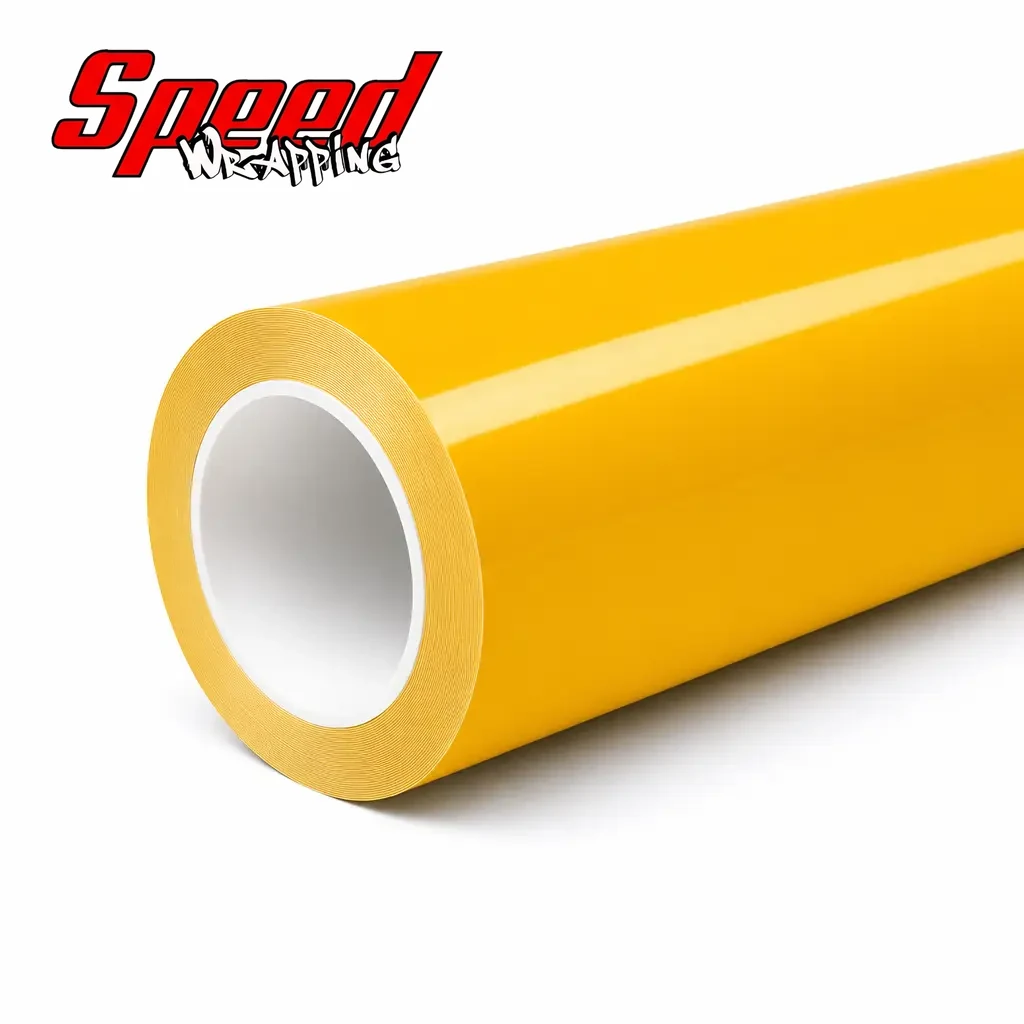
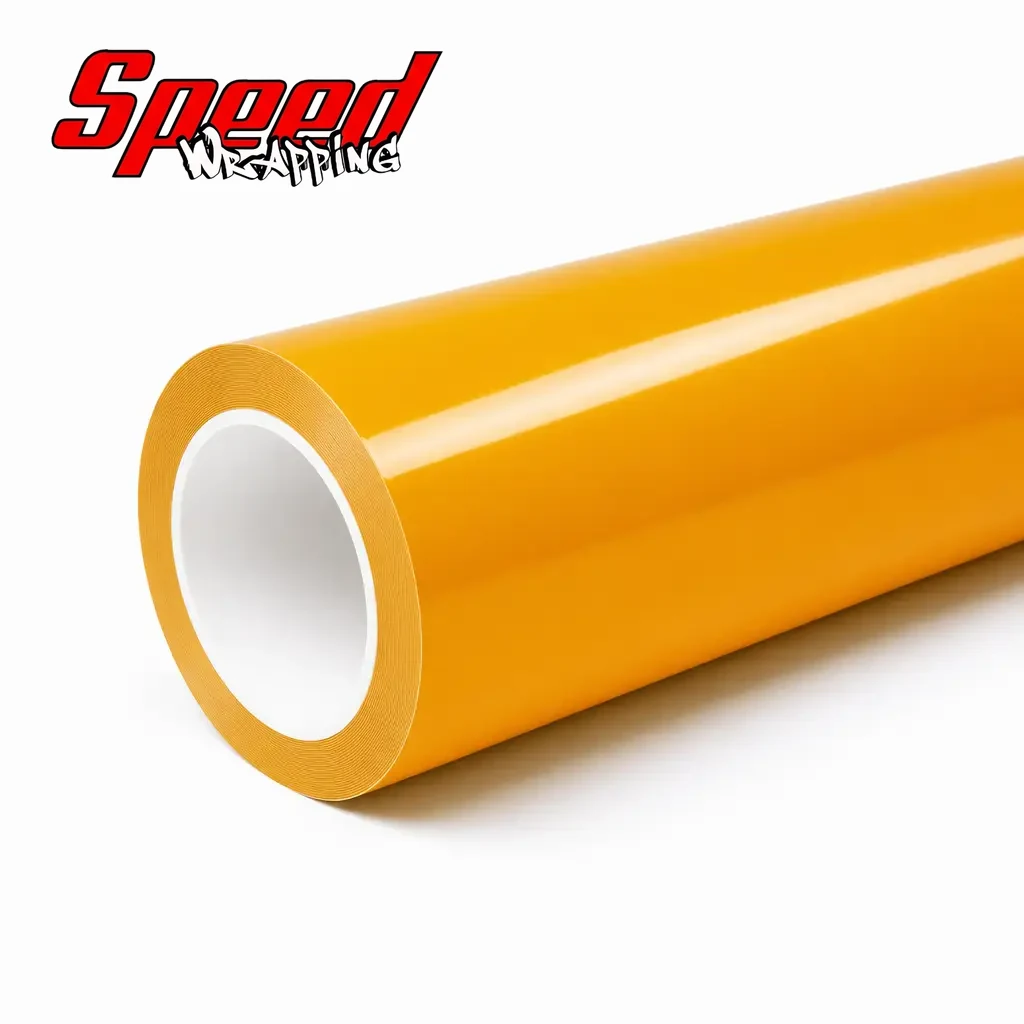
fix(esg-016): tom corrigido para o amarelo-ambar do cartao (#E39702), fotos e capa refeitas

Changed region(s): [[0.125, 0.125, 1.0, 0.8125]]

diff --git a/docs/STATUS_CORES_SPEED.md b/docs/STATUS_CORES_SPEED.md
@@ -45,9 +45,9 @@ pasta · `✅ ` = fotos e capa 100% no site. Ex.: `✅ EDG-020 LIQUID METAL RUBY
 | EGF-018 | FORGED CARBON | ✅ 30/09 | ⚠ 01/10 — **leitura errada na 1ª publicação**: tratei como brilhante; o João corrigiu: é **fosco com flake metálico** nos estilhaços (base preta aveludada). Novo recorte `3f26a272` | ✅ 01/10 — refeito fosco; **B** aprovado (`ee02ef0e`) | ✅ 01/10 — refeitas no acabamento certo (fosco + flake metálico): closes + capa rolo fosco; sem correção | ✅ 01/10 — 1ª publicação `2ff4491` (brilhante, errada) substituída pelo commit `38bb6c7`; 5 arquivos conferidos por conteúdo no ar; pasta ✅ |
 | ESG-004 | SUPER GLOSS FERRARI RED PET | ✅ 01/10 | ✅ 01/10 — à mão: H 356–1 · S 84–97 · V ~88 → vermelho vivo levemente alaranjado **`#E31E14`** (cor no teto: sem correção) | ✅ 01/10 — **B** aprovado (`0e479703`) | ✅ 01/10 — aprovadas (H 359–5 · S 92–99; capa V 89); sem correção | ✅ 01/10 — commit `70cfffc`, 5 mídias (capa antiga substituída), conferido no ar; pasta ✅ |
 | ESG-011 | SUPER GLOSS MIAMI BLUE PET | ✅ 01/10 | ✅ 01/10 — à mão: H 188–194 · S 87–99 · V 80–86 (asfalto neutro) → **`#05A9CD`** (cor no teto) | ✅ 01/10 — **B** aprovado (`d575dc96`) | ✅ 01/10 — aprovadas, sem correção | ✅ 01/10 — commit `99a4a2a`, 5 mídias, conferidas por conteúdo no ar; pasta ✅ |
-| ESG-016 | SUPER GLOSS SUNFLOWER YELLOW PET | ✅ 01/10 | ✅ 01/10 — à mão (só fotos sem a ESG-017 atrás): H 40–43 · S 97–99 · V 87–96 → **`#F2A705`** (cor no teto) | ✅ 01/10 — **B** aprovado (`7d4df5e3`; eu tinha recomendado A) | ✅ 01/10 — aprovadas, sem correção | ✅ 01/10 — commit `a232b57`, 5 mídias, conferidas no ar; pasta ✅ |
+| ESG-016 | SUPER GLOSS SUNFLOWER YELLOW PET | ✅ 01/10 | 🔁 01/10 — **releitura** (João reprovou o tom com foto do cartão na frente da ESG-017): face plana H 39,7 · S 99 · V 89 → **`#E39702`** (âmbar/manga); a 1ª leitura `#F2A705` pegou o reflexo e saiu limão | ✅ 01/10 — B aprovado (`7d4df5e3`), depois refeito | 🔁 01/10 — refeitas do zero com prompt âmbar (frontal `9b244d73`, traseira `5a21a2de`, perfil `c6443c48`, macro `7129a767`, capa `46c2d9be`), H 36–38; sem correção — **aprovadas pelo João em 01/10** | ✅ 01/10 — 1ª versão `a232b57` (limão), **substituída em 01/10** pela versão âmbar (mesmos nomes de arquivo, conferida no ar por md5); pasta ✅ |
 | ESG-025 | SUPER GLOSS LAVENDER PET | ✅ 01/10 | ✅ 01/10 — à mão: H 250–257 · S 38–41 · V 89–92 → **`#A996EA`** (lilás pastel; swatch) | ✅ 01/10 — **B** aprovado (`afb651df`; eu tinha recomendado A) | ✅ 01/10 — aprovadas, corrigidas contra `#A996EA` (violeta, val_max 0,95) | ✅ 01/10 — commit `9fe9043` (deploy demorou; banco na 2ª rodada), 5 mídias, conferidas no ar; pasta ✅ |
-| EMA-007 | MATT ARMY GREEN | ✅ 01/10 | ✅ 01/10 — à mão (balanço de branco pelo asfalto): H 104–108 · S 25–32 · V 43–48 → **`#5A7351`**; **fosco** (1ª EMA) | ✅ 01/10 — **B** aprovado (`1497a65c`, corrigido) | ✅ 01/10 — aprovadas, corrigidas com a família nova `militar` + sat_min 0,06 | ⚠ 01/10 — commit `c721c12`, 5 mídias gravadas e conferidas no ar, **mas a página não aparece na loja: as 17 EMA estão INATIVAS no NZERP** (`master_catalog.active = false`; a loja redireciona para o catálogo). Pasta ✅. Aguardando o João decidir se ativa a linha EMA |
+| EMA-007 | MATT ARMY GREEN | ✅ 01/10 | ✅ 01/10 — à mão (balanço de branco pelo asfalto): H 104–108 · S 25–32 · V 43–48 → **`#5A7351`**; **fosco** (1ª EMA) | ✅ 01/10 — **B** aprovado (`1497a65c`, corrigido) | ✅ 01/10 — aprovadas, corrigidas com a família nova `militar` + sat_min 0,06 | ✅ 01/10 — commit `c721c12`, 5 mídias conferidas no ar. Página escondida até a linha EMA ser ativada; **ativada no NZERP em 01/10 a pedido do João** e conferida na loja (`/loja/speed-wrapping-ema-007-matt-army-green-spwema007`). Pasta ✅ |
 
 **Cadastradas no NZERP em 01/10** (eram as "fora do NZERP" com amostra no Drive): nome lido no rótulo do
 cartão; fiscal, custo, preço da Engenharia e medidas copiados do irmão de linha; criadas no Tiny pela
@@ -72,7 +72,8 @@ sync. Prontas para foto:
 Os funcionários subiram 43 cores novas (pastas marcadas 🟢 em 01/10). Todas existem no NZERP e no site, só com a capa antiga (1 mídia, nenhuma foto de carro):
 
 - **ESG (super gloss), 28:** ESG-001 a ESG-029, menos a ESG-004 (no ar em 01/10); ESG-011, 016 e 025 no ar em 01/10.
-- **EMA (matt), 13:** EMA-003 a EMA-015 e EMA-017, menos a EMA-007. **A linha EMA inteira está inativa no NZERP** (as páginas não aparecem na loja) — esperar a decisão do João antes de fotografar o resto.
+- **EMA (matt), 13:** EMA-003 a EMA-015 e EMA-017, menos a EMA-007. **Linha EMA ativada no NZERP em 01/10** (`master_catalog.active = true` nas 17, com `audit_logs` `ATIVAR_PRODUTO`; no Tiny já estavam ativas; preço mantido em R$ 2.800 o rolo / R$ 76 o metro). As 16 sem foto de carro aparecem na loja com a capa antiga até serem fotografadas.
+  - Armadilha: o gatilho `site_notificar_sync` do NZERP tem *debounce* de 15 s — uma alteração feita logo depois de outro aviso não dispara o sync do site. Se a loja não refletir, rode `select public.site_notificar_sync();` depois de 15 s.
 - ESG-041 ganhou 2 fotos de amostra (já publicada em set/2026; tom ainda a confirmar com o João).
 
 **Refotografar** (cartão deitado, na sombra, folha branca ao lado) — leitura instável por
@@ -82,7 +83,7 @@ neutra — ajustar antes de ler.
 
 ## Concluídas (fotos de carro + capa nova no ar)
 
-ESG-011 Super Gloss Miami Blue (Porsche 911 GT3 Touring), ESG-016 Super Gloss Sunflower Yellow (Corvette C8), ESG-025 Super Gloss Lavender (Mercedes-AMG SL 63) e EMA-007 Matt Army Green (Mercedes-AMG G 63 — página oculta: EMA inativa no NZERP) — 01/10, 5º lote. EGF-018 refeita no acabamento fosco (`38bb6c7`).
+ESG-011 Super Gloss Miami Blue (Porsche 911 GT3 Touring), ESG-016 Super Gloss Sunflower Yellow (Corvette C8), ESG-025 Super Gloss Lavender (Mercedes-AMG SL 63) e EMA-007 Matt Army Green (Mercedes-AMG G 63 — página liberada em 01/10 com a ativação da linha EMA) — 01/10, 5º lote. EGF-018 refeita no acabamento fosco (`38bb6c7`).
 EGF-006 Gloss Forged Carbon Silver (closes do Mercedes-AMG GT, nome corrigido no Tiny/site), EGF-017 Shadow Black (closes do M4 — camuflagem, não forjado), EGF-018 Forged Carbon (closes do 720S) e ESG-004 Super Gloss Ferrari Red (Ferrari F8 Tributo) — 01/10, 4º lote. Fechadas todas as EDG/EMT/EMG/EGF com amostra.
 EDG-026 Metallic Paint Metallic Sonoma Green (Lamborghini Urus — família nova `musgo`), EMG-022 Satin Metallic Glossy Prunus Sakura Pink (Maserati GranTurismo), EGF-010 Gloss Forged Carbon Gold (closes da Ferrari 296 GTB) e EGF-013 Matte Forged Carbon Purple (closes do 911 GT3) — 01/10, 3º lote de 4.
 EDG-023 Metallic Ruby Gold (Porsche Taycan), EMG-021 Satin Metallic Glossy Agate Green (Lotus Emira), EMT-024 Satin Metallic Matt Pearl Pink (BMW i8) e EGF-012 Gloss Forged Carbon Purple (Huracán STO, **primeira de padrão: só closes das áreas aplicadas**) — 01/10, 2º lote de 4, as quatro cadastradas no NZERP no mesmo dia.

diff --git a/docs/FOTOS_DE_COR_AUTOMOTIVA.md b/docs/FOTOS_DE_COR_AUTOMOTIVA.md
@@ -128,7 +128,7 @@ confiável:
 | EGF-018 Forged Carbon | estilhaços angulosos cinza/grafite sobre preto | — | forjado em estilhaços, não em retângulos |
 | ESG-004 Super Gloss Ferrari Red | H 356–1 · S 84–97 · V ~88 (à mão) → `#E31E14` | — | cor no teto: sem correção |
 | ESG-011 Super Gloss Miami Blue | H 188–194 · S 87–99 · V 80–86 → `#05A9CD` | — | cor no teto: sem correção |
-| ESG-016 Super Gloss Sunflower Yellow | H 40–43 · S 97–99 · V 87–96 → `#F2A705` | — | duas fotos tinham a ESG-017 atrás do cartão: medir só as fotos com o cartão sozinho |
+| ESG-016 Super Gloss Sunflower Yellow | face plana H 39,7 · S 99 · V 89 → **`#E39702`** (âmbar/manga; a 1ª leitura `#F2A705` pegou o reflexo) | — | refeita em 01/10 com prompt "deep amber / marigold / mango, NOT canary"; sem correção (a família `dourado` tinge o cenário) |
 | ESG-025 Super Gloss Lavender | H 250–257 · S 38–41 · V 89–92 → `#A996EA` (swatch) | — | asfalto neutro; corrigida com `violeta` + `val_max` 0,95 |
 | EMA-007 Matt Army Green | H 104–108 · S 25–32 · V 43–48 (balanço de branco) → `#5A7351` | — | primeira EMA (fosco); gerador entrega oliva acinzentado H ~84 |
 | EDG-021 / EMT-025 (azuis, 30/09) | — | 41 / 26 | **não confiável**: reflexo do céu no cartão segurado na mão — refotografar deitado, na sombra |
@@ -594,6 +594,26 @@ contra o sol os estilhaços refletem forte e parecem verniz. Regra: em carbono, 
 (fosca ou brilhante?) do **flake das lascas** (metálico ou liso?) e escrever as duas coisas no prompt;
 o recorte de textura tem que mostrar a base fosca (EGF-018 v2: `3f26a272`). Na dúvida, perguntar
 ao João o acabamento antes do piloto.
+
+### Amarelo-âmbar lido como limão (ESG-016, 01/10)
+
+A ESG-016 Sunflower Yellow foi publicada amarelo-canário (H 42–45 · V 96–98) e o João reprovou com
+uma foto do cartão **na frente da ESG-017** (limão, H 53): a face plana da ESG-016 dá H 39,7 · S 99 ·
+V 89 → `#E39702`, um amarelo-âmbar puxado para manga. Dois erros somados:
+
+1. **Leitura no reflexo.** A primeira leitura (`#F2A705`) pegou a parte do cartão que estava no
+   brilho; ali o valor sobe e o matiz anda para o amarelo (H 45 no brilho × H 39,7 na face plana do
+   mesmo cartão). Medir a **face plana bem iluminada**, nunca a faixa mais clara.
+2. **O nome puxa o gerador.** "Sunflower" + V 95 ancorou no canário. Para âmbar, o prompt que
+   acertou de primeira foi "a deep amber yellow, a warm marigold or mango yellow that leans clearly
+   toward orange … NOT a bright canary yellow", com V ~88 → H 36–38 iluminado.
+
+Correção não serviu: a família `dourado` (22–62) pegou as rochas calcárias e o pasto das Dolomitas
+(com `manterValor` desligado, a paisagem inteira ficou laranja). Amarelo num cenário de pedra e pasto
+quentes → **refazer com o prompt certo**, não corrigir. E a melhor referência de tom é o **irmão de
+linha ao lado** no mesmo cartão: a diferença relativa entre os dois não depende do balanço de branco.
+Fotos refeitas: frontal `9b244d73`, traseira `5a21a2de`, perfil `c6443c48`, macro `7129a767`, capa
+`46c2d9be`.
 
 ### Verde-militar fosco: correção que mancha a porta ou tinge o cenário (EMA-007, 01/10)
 

diff --git a/docs/CAPAS_SPEED_WRAPPING.md b/docs/CAPAS_SPEED_WRAPPING.md
@@ -325,7 +325,7 @@ conferir sempre pelo arquivo no ar antes de mexer em qualquer coisa.
 | EGF-018 Forged Carbon | padrão (estilhaços cinza sobre preto) | gloss forjado | ESG-034 + recorte do cartão (`5980816d`); capa 2 (estilhaços mais nítidos) |
 | ESG-004 Super Gloss Ferrari Red | `#E31E14` · H 3 · S 91 · V 89 | super gloss sólido | ESG-034 + ESG-033 + "SOLID colour, exactly like image 2"; capa 2 (H 5 · S 92 · V 89); sem correção (cor no teto) |
 | ESG-011 Super Gloss Miami Blue | `#05A9CD` · H 191 · S 97 · V 81 | super gloss sólido | ESG-034 + ESG-033 + "SOLID colour, exactly like image 2"; capa 2 (H 189 · S 97 · V 80); sem correção |
-| ESG-016 Super Gloss Sunflower Yellow | `#F2A705` · H 41 · S 98 · V 95 | super gloss sólido | idem; capa 1 (H 41 · S 99 · V 93); sem correção |
+| ESG-016 Super Gloss Sunflower Yellow | `#E39702` · H 40 · S 99 · V 89 (refeita 01/10; antes `#F2A705`, saiu limão) | super gloss sólido | idem; capa `46c2d9be` (H 38 · S 98 · V 92); sem correção |
 | ESG-025 Super Gloss Lavender | `#A996EA` · H 253 · S 36 · V 92 | super gloss sólido | idem; capa 2 → `--corrigir` fecha em H 253,6 · S 36,1 · V 91,8 (família `violeta`, `val_max` 0,95) |
 | EMA-007 Matt Army Green | `#5A7351` · H 105 · S 29 · V 45 | **matt** (fosco) | **primeira capa fosca lisa**: só ESG-034 (geometria) + "TRUE MATTE… NO specular band"; capa 2 → fecha em H 104,2 · S 29,6 · V 45,1 (família nova `militar`) |
 
